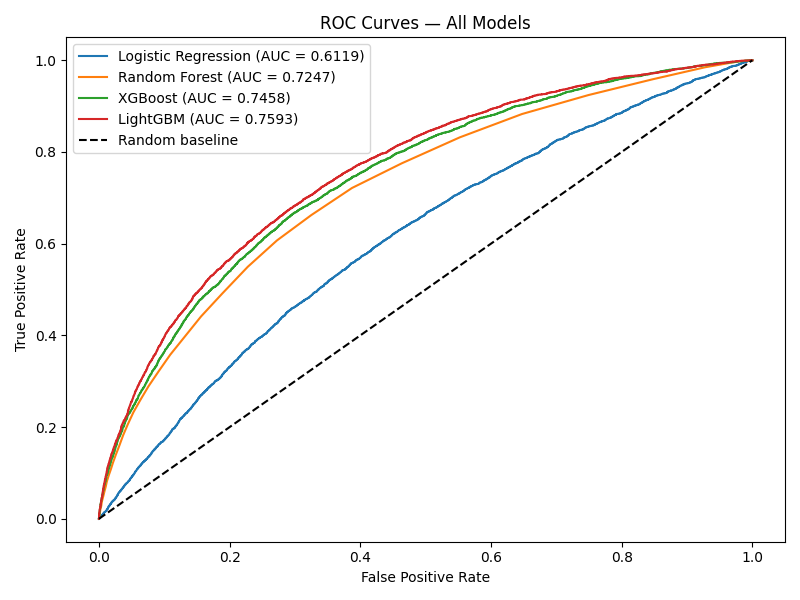
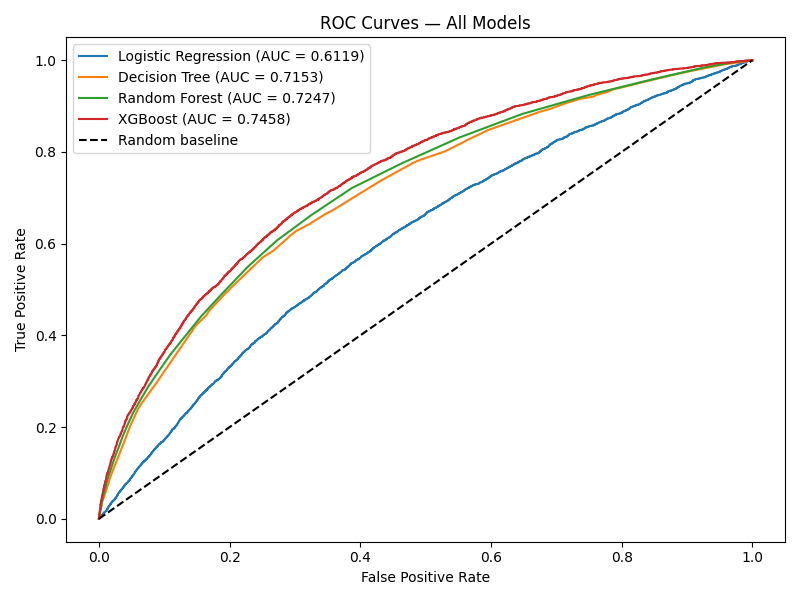
updated streamlit_app for deployment

Changed region(s): [[0.125, 0.12, 0.8438, 0.84], [0.125, 0.12, 0.4375, 0.21], [0.8438, 0.09, 0.9375, 0.12]]

diff --git a/app/streamlit_app.py b/app/streamlit_app.py
@@ -5,22 +5,24 @@ import matplotlib.pyplot as plt
 import joblib
 import shap
 import warnings
+import os
 
 warnings.filterwarnings('ignore')
 
+BASE_DIR = os.path.dirname(os.path.dirname(os.path.abspath(__file__)))
 
 st.set_page_config(page_title="Credit Risk Scorer", layout="wide")
 
 
 @st.cache_resource
 def load_model():
-    model = joblib.load('../models/lgbm_model.pkl')
+    model = joblib.load(os.path.join(BASE_DIR, 'models', 'xgb_model.pkl'))
     return model
 
 @st.cache_data
 def load_data():
-    X_val = pd.read_csv('../outputs/X_val.csv')
-    y_val = pd.read_csv('../outputs/y_val.csv').squeeze()
+    X_val = pd.read_csv(os.path.join(BASE_DIR, 'outputs', 'X_val.csv'))
+    y_val = pd.read_csv(os.path.join(BASE_DIR, 'outputs', 'y_val.csv')).squeeze()
     X_val.columns = X_val.columns.str.replace('[^A-Za-z0-9_]', '_', regex=True)
     return X_val, y_val
 
@@ -145,19 +147,19 @@ with tab2:
     st.title("Exploratory Data Analysis")
 
     st.subheader("Class Imbalance")
-    st.image('../outputs/class_imbalance.png')
+    st.image(os.path.join(BASE_DIR, 'outputs', 'class_imbalance.png'))
 
     st.subheader("Age Distribution")
-    st.image('../outputs/age_distribution.png')
+    st.image(os.path.join(BASE_DIR, 'outputs', 'age_distribution.png'))
 
     st.subheader("Income Distribution")
-    st.image('../outputs/income_distribution.png')
+    st.image(os.path.join(BASE_DIR, 'outputs', 'income_distribution.png'))
 
     st.subheader("Default Rate by Employment Type")
-    st.image('../outputs/default_by_employment.png')
+    st.image(os.path.join(BASE_DIR, 'outputs', 'default_by_employment.png'))
 
     st.subheader("Default Rate by Education Level")
-    st.image('../outputs/default_by_education.png')
+    st.image(os.path.join(BASE_DIR, 'outputs', 'default_by_education.png'))
 
 
 
@@ -167,24 +169,24 @@ with tab3:
     st.title("Model Performance Comparison")
 
     results = {
-        'Model':     ['Logistic Regression', 'Random Forest', 'XGBoost', 'LightGBM'],
-        'AUC-ROC':   [0.6119, 0.7247, 0.7458, 0.7593],
-        'F1 Score':  [0.1876, 0.0032, 0.2738, 0.2714],
-        'Precision': [0.1148, 0.8000, 0.1772, 0.1702],
-        'Recall':    [0.5132, 0.0016, 0.6020, 0.6701]
+    'Model':     ['Logistic Regression', 'Decision Tree', 'Random Forest', 'XGBoost'],
+    'AUC-ROC':   [0.6119, 0.7153, 0.7247, 0.7458],
+    'F1 Score':  [0.1876, 0.2418, 0.0032, 0.2738],
+    'Precision': [0.1148, 0.1489, 0.8000, 0.1772],
+    'Recall':    [0.5132, 0.6425, 0.0016, 0.6020]
     }
 
     results_df = pd.DataFrame(results)
     st.dataframe(results_df, use_container_width=True)
 
     st.subheader("Model Comparison Chart")
-    st.image('../outputs/model_comparison.png')
+    st.image(os.path.join(BASE_DIR, 'outputs', 'model_comparison.png'))
 
     st.subheader("ROC Curves")
-    st.image('../outputs/roc_curves.png')
+    st.image(os.path.join(BASE_DIR, 'outputs', 'roc_curves.png'))
 
-    st.subheader("Confusion Matrix — LightGBM")
-    st.image('../outputs/confusion_matrix.png')
+    st.subheader("Confusion Matrix — XGBoost")
+    st.image(os.path.join(BASE_DIR, 'outputs', 'confusion_matrix.png'))
 
 
 
@@ -192,5 +194,5 @@ with tab3:
 
 with tab4:
     st.title("Feature Correlation with Default")
-    st.image('../outputs/top_correlations.png')
+    st.image(os.path.join(BASE_DIR, 'outputs', 'top_correlations.png'))
    